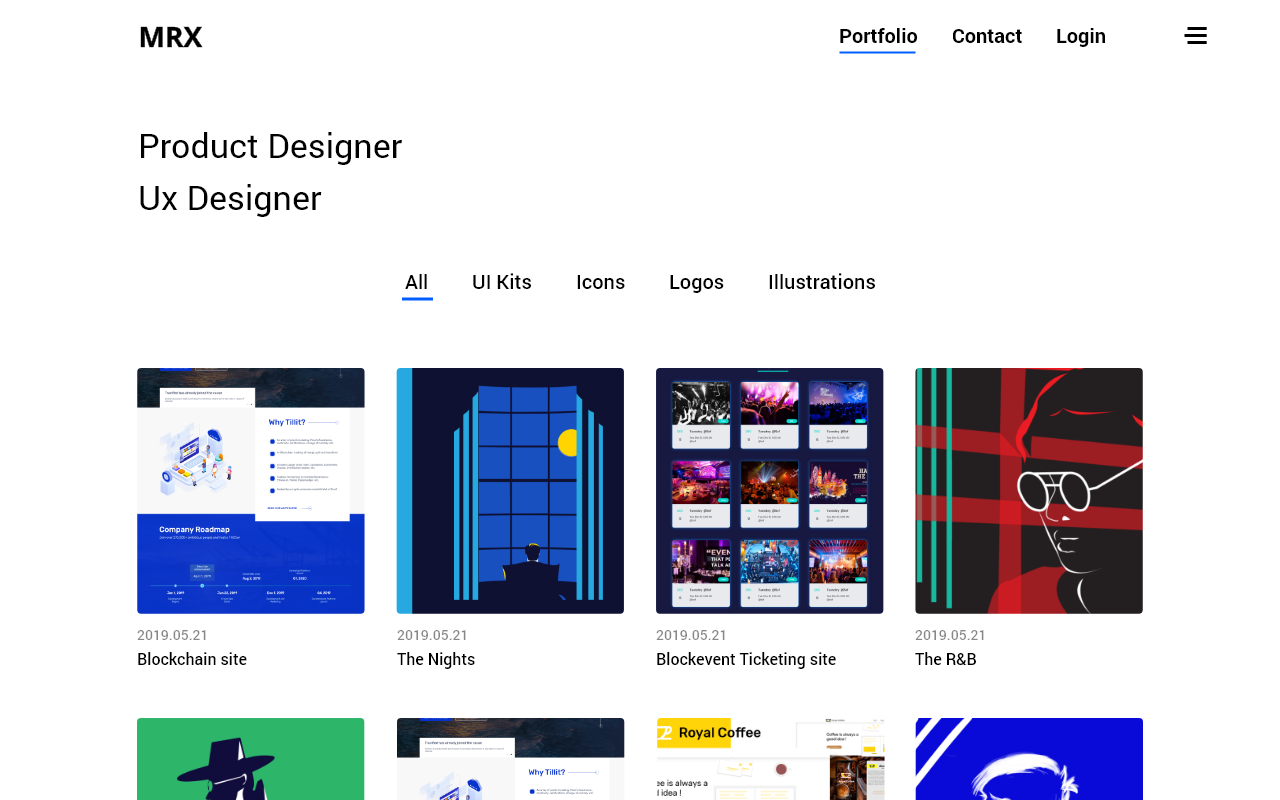
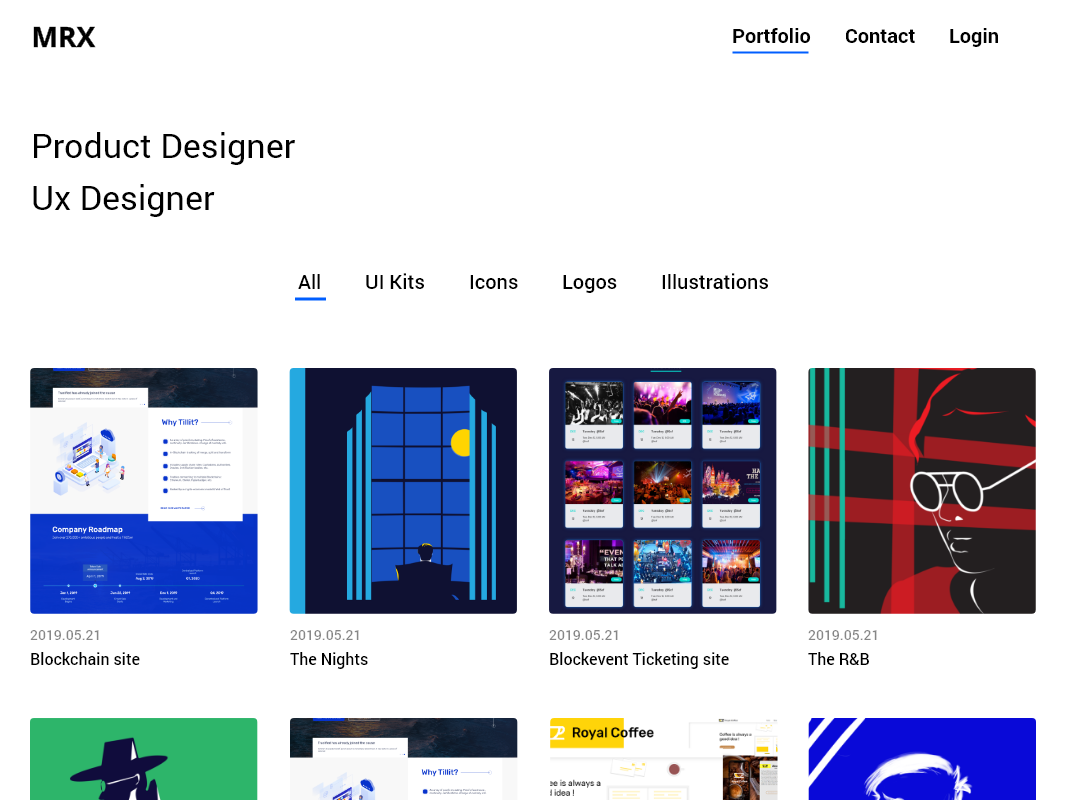
portfolio

diff --git a/index.html b/index.html
@@ -45,31 +45,86 @@
         <div class="content-container mt-5">
             <a class="content content-tab1 content-active">
                     <section class="gallery">
-                            <div class="card-deck">
-                                    <div class="card">
-                                      <img class="card-img-top" src="images/port_f.png" alt="Card image cap">
-                                      <div class="card-body">
-                                        <h5 class="card-title">Portfolio design</h5>
-                                        <p class="card-text"><small class="text-muted">2019.05.21</small></p>
-                                      </div>
+                                <div class="row mb-3">
+                                    <div class="col-md-4">
+                                        <div class="card">
+                                            <a class="lightbox" href="./images/port_f.png">
+                                            <img src="./images/port_f.png" alt="Park" class="card-img-top">
+                                            </a>
+                                        </div>
                                     </div>
-                                    <div class="card">
-                                      <img class="card-img-top" src="/images/charleen-01.png" alt="Card image cap">
-                                      <div class="card-body">
-                                        <h5 class="card-title">Card title</h5>
-                                        <p class="card-text">This card has supporting text below as a natural lead-in to additional content.</p>
-                                        <p class="card-text"><small class="text-muted">Last updated 3 mins ago</small></p>
-                                      </div>
+                                     
+                                    <div class="col-md-4">
+                                        <div class="card">
+                                            <a class="lightbox" href="./images/charleen-01.png">
+                                            <img src="./images/charleen-01.png" alt="Park" class="card-img-top">
+                                            </a>
+                                        </div>
                                     </div>
-                                    <div class="card">
-                                      <img class="card-img-top" src="/images/detective_2x.png" alt="Card image cap">
-                                      <div class="card-body">
-                                        <h5 class="card-title">Card title</h5>
-                                        <p class="card-text">This is a wider card with supporting text below as a natural lead-in to additional content. This card has even longer content than the first to show that equal height action.</p>
-                                        <p class="card-text"><small class="text-muted">Last updated 3 mins ago</small></p>
-                                      </div>
+                                     
+                                    <div class="col-md-4">
+                                        <div class="card">
+                                            <a class="lightbox" href="./images/detective_2x.png">
+                                            <img src="./images/detective_2x.png" alt="Park" class="card-img-top">
+                                            </a>
+                                        </div>
                                     </div>
-                                  </div>
+                                </div>
+
+                                <div class="row mb-3"> 
+                                    <div class="col-md-4">
+                                        <div class="card">
+                                            <a class="lightbox" href="./images/behance_2x.png">
+                                            <img src="./images/behance_2x.png" alt="Park" class="card-img-top">
+                                            </a>
+                                        </div>
+                                    </div>
+                                     
+                                    <div class="col-md-4">
+                                        <div class="card">
+                                            <a class="lightbox" href="./images/coffee.png">
+                                            <img src="./images/coffee.png" alt="Park" class="card-img-top">
+                                            </a>
+                                        </div>
+                                    </div>
+                                     
+                                    <div class="col-md-4">
+                                        <div class="card">
+                                            <a class="lightbox" href="./images/b_illu3_2x.png">
+                                            <img src="./images/b_illu3_2x.png" alt="Park" class="card-img-top">
+                                            </a>
+                                        </div>
+                                    </div>
+                                 
+                                </div>
+
+                                <div class="row mb-3">
+                                    <div class="col-md-4">
+                                        <div class="card">
+                                            <a class="lightbox" href="./images/port_f.png">
+                                            <img src="./images/port_f.png" alt="Park" class="card-img-top">
+                                            </a>
+                                        </div>
+                                    </div>
+                                     
+                                    <div class="col-md-4">
+                                        <div class="card">
+                                            <a class="lightbox" href="./images/charleen-01.png">
+                                            <img src="./images/charleen-01.png" alt="Park" class="card-img-top">
+                                            </a>
+                                        </div>
+                                    </div>
+                                     
+                                    <div class="col-md-4">
+                                        <div class="card">
+                                            <a class="lightbox" href="./images/detective_2x.png">
+                                            <img src="./images/detective_2x.png" alt="Park" class="card-img-top">
+                                            </a>
+                                        </div>
+                                    </div>
+                                </div>
+                                
+                            
                       </section>
             </a>
             <a class="content content-tab2">tab2-content</a>
@@ -81,8 +136,8 @@
     </div>
     <!-- end container -->
 
-    <footer class="footer mt-auto py-3">
-        <div class="container">
+    <footer class="footer t-auto py-3">
+        <div class="container text-center">
             <span class="text-muted">All right reserved &copy; copyright 2019</span>
         </div>
     </footer>
